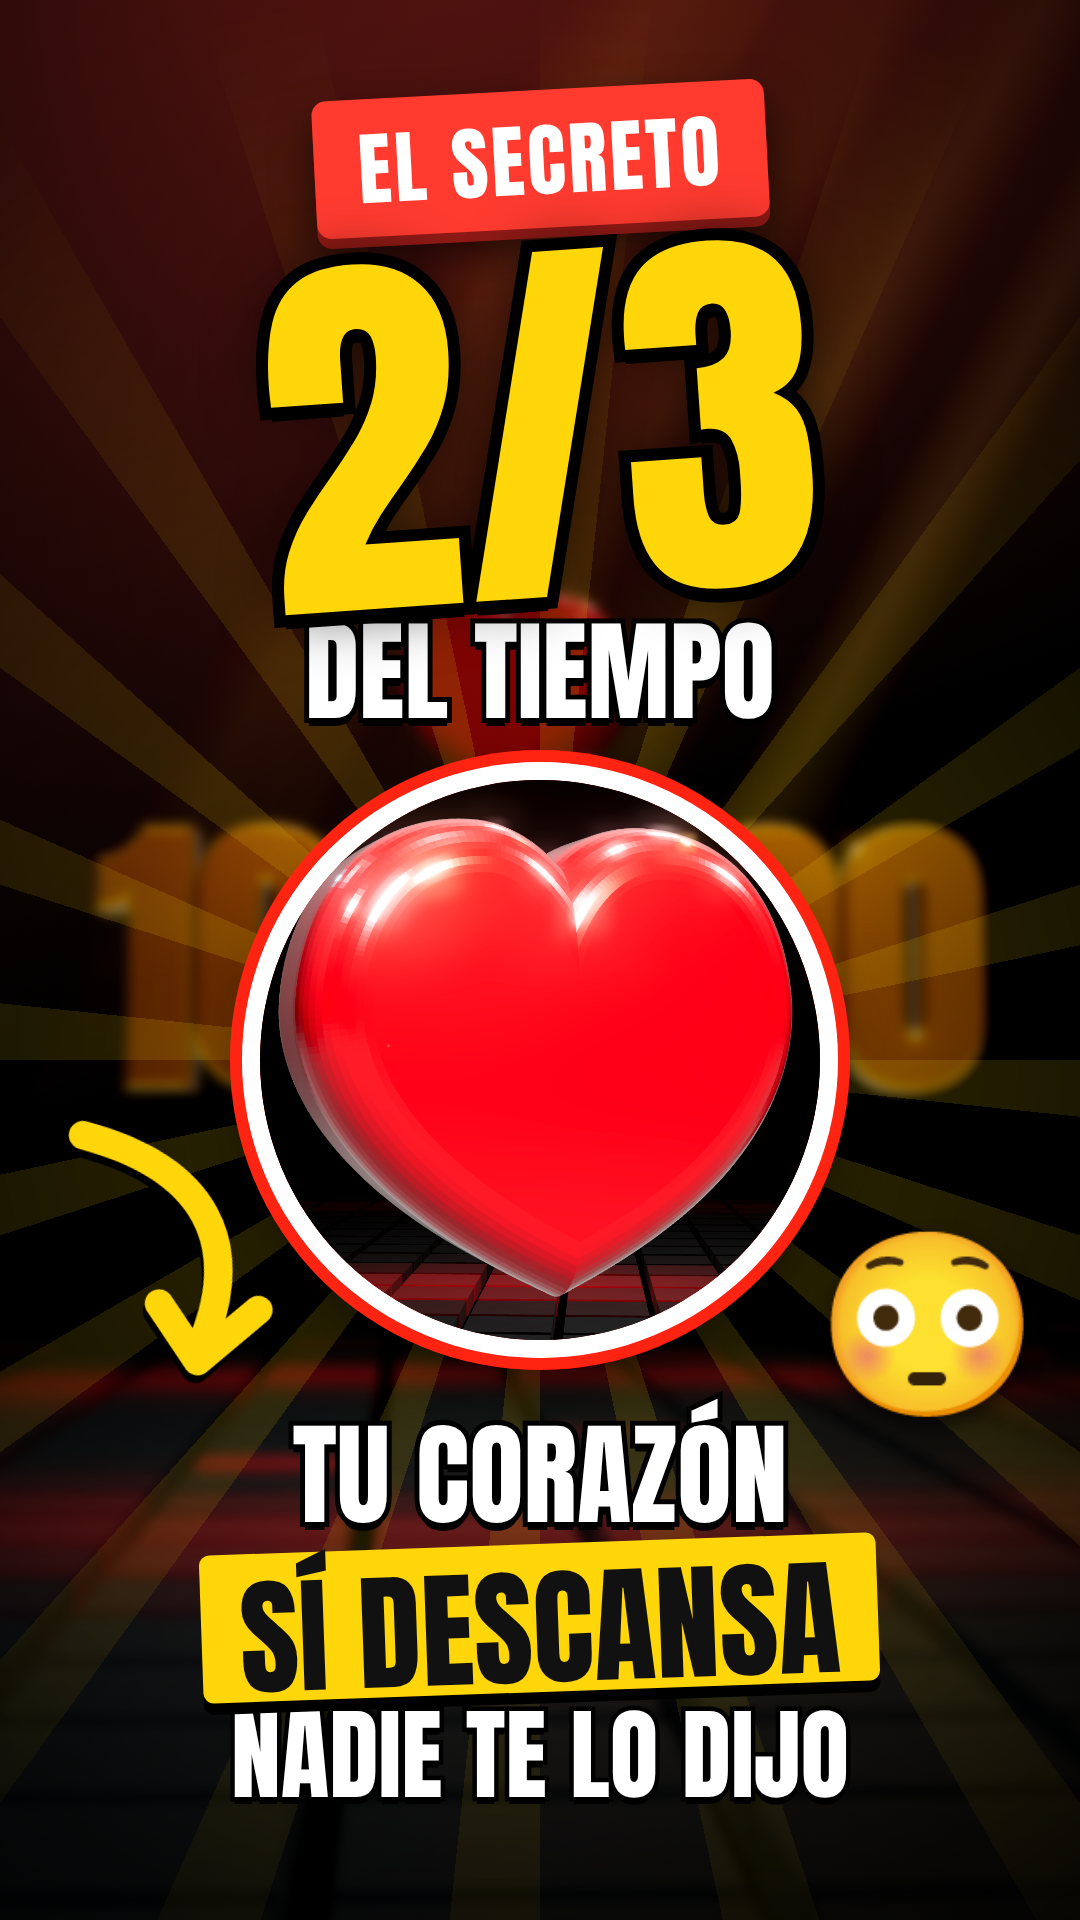
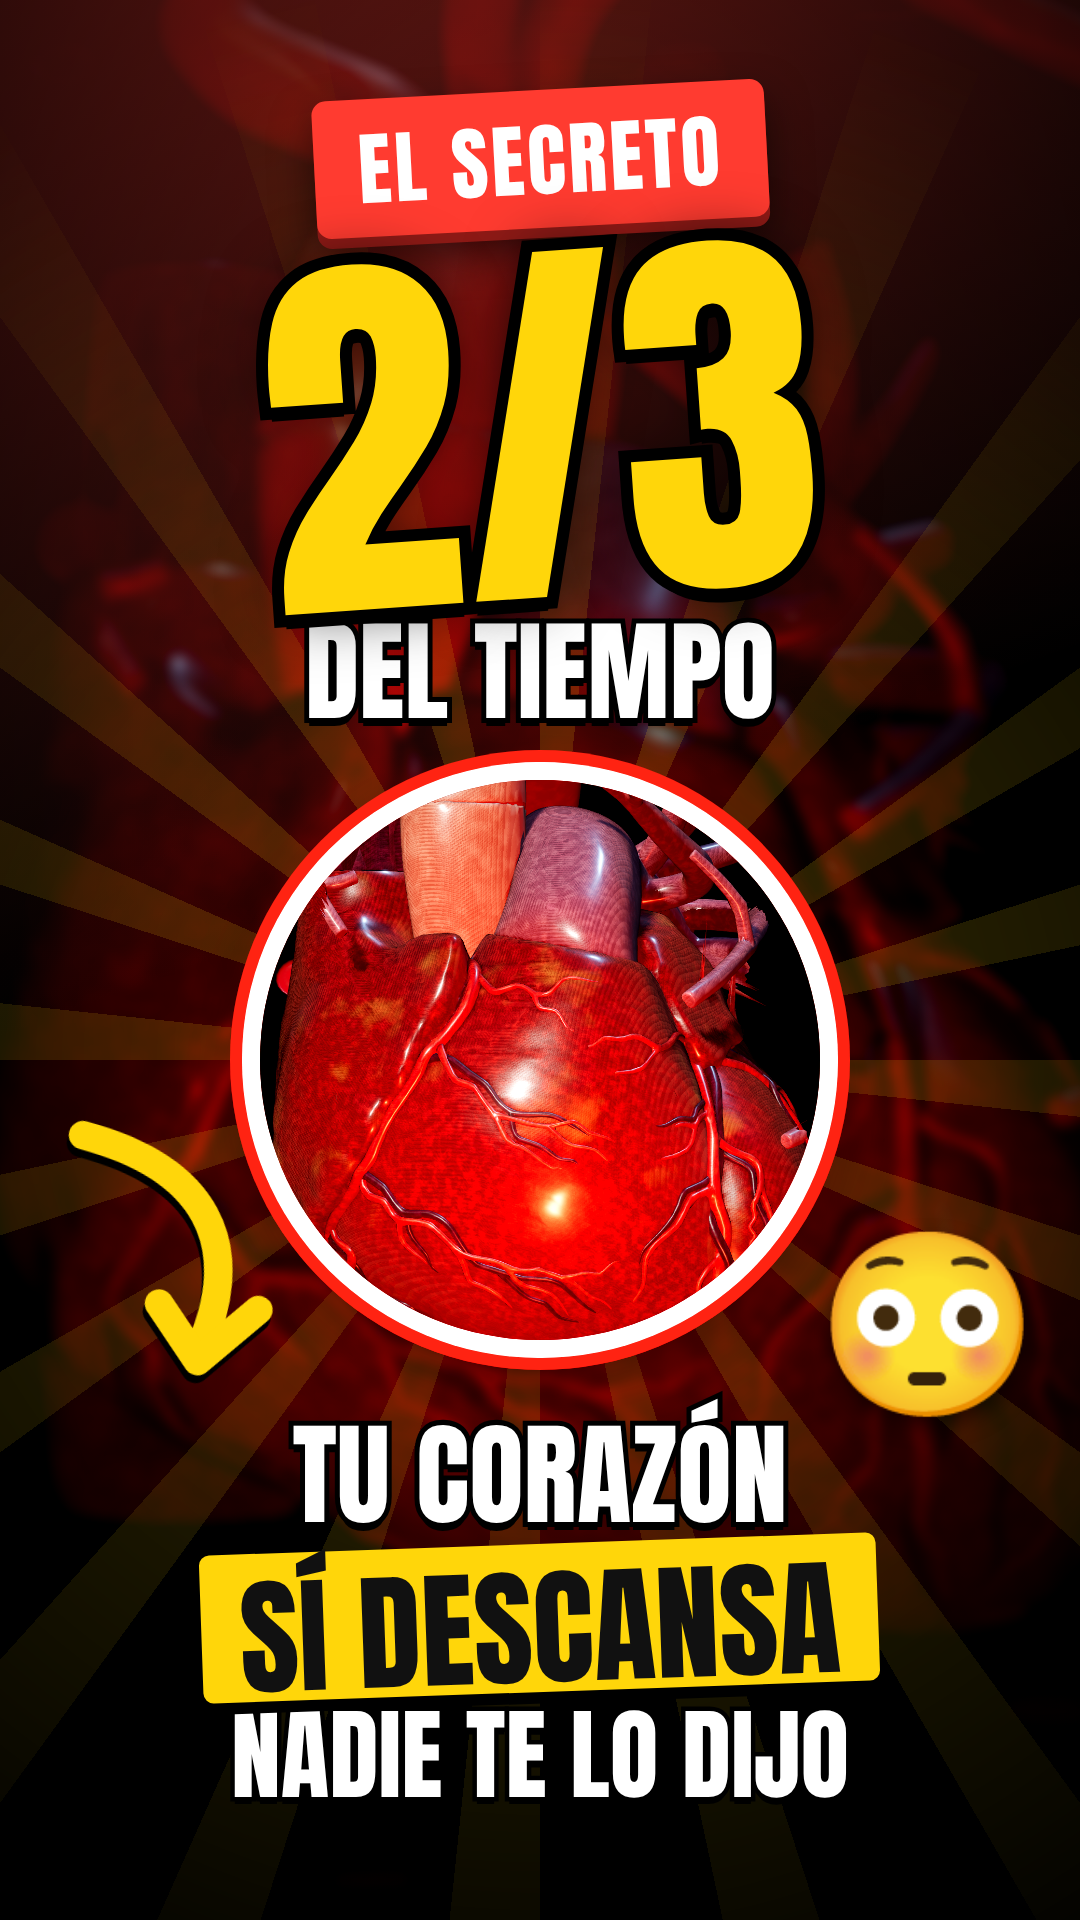
E02 v2 thumbnails + credit line; PLAYBOOK v6.1 topic-driven settings with real anatomy
Claude-Session: https://claude.ai/code/session_01FweKZ2sNp7pZXethpsF4p4

diff --git a/PLAYBOOK.md b/PLAYBOOK.md
@@ -203,3 +203,10 @@ No copiamos la referencia: tomamos su *calidad* (luz, metal, niebla, cámara que
 4. **Estructura que retiene:** gancho (pregunta o imposible) → promesa ("guarda un secreto, te lo cuento al final") → escalera de 3-5 datos cada vez más fuertes → apagón + giro → humor → gesto físico del espectador ("pon la mano en tu pecho") → ENLACE.
 5. **Historias enlazadas.** Cada episodio termina anunciando el próximo capítulo de su serie ("Sígueme, que en el próximo capítulo te cuento…") y ese episodio abre recordando el anterior ("En el capítulo anterior te conté…"). Nunca digas "mañana" si mañana toca otra serie. Anota el enlace en CALENDARIO.md.
 6. **Calidad:** materiales PBR (oro metálico, vidrio/laca con clearcoat), bloom moderado, niebla, rayos de luz, viñeta; subtítulos grandes centrados (Heavy, blanco + palabra clave dorada, y≈1270); números siempre en 3D o UI, nunca generados por IA.
+
+### v6.1 · Escenario adaptado a cada tema (sin estilo fijo)
+- No hay un "estilo de la casa": cada video construye el escenario REAL de su tema. Cuerpo humano → dentro del cuerpo, con órganos anatómicos reales (engine/anatomy.js + assets3d/anatomy, BodyParts3D). País/ciudad → relieve y mapa real (engine/maps.js). Fútbol → estadio/cancha. Nunca un objeto genérico tipo emoji (el corazón ♥ de E02 v1 fue rechazado: "se ve muy genérico").
+- Órganos disponibles: heart_wall, coronary_arteries, cardiac_veins, aorta, vena_cava, pulmonary_artery, lungs, ribs, sternum, diaphragm, liver. Para otro órgano: buscar su FMA en BodyParts3D (parts_list_e.txt / composite_parts.txt), añadirlo a tools/anatomy_glb.py y un material en anatomy.js.
+- Siempre poner en la descripción: "Modelos anatómicos 3D: BodyParts3D, © DBCLS, CC BY-SA 2.1 JP" (y en los últimos 3 s del video).
+- Cada video debe mejorar algo respecto al anterior (anotarlo en el commit): más realismo, mejor luz, mejor sincronía, mejor gancho.
+- Revisión obligatoria de fotogramas (contact sheet) antes del render final: nada tapado por subtítulos, nada cortado, nada lavado/sobreexpuesto.
